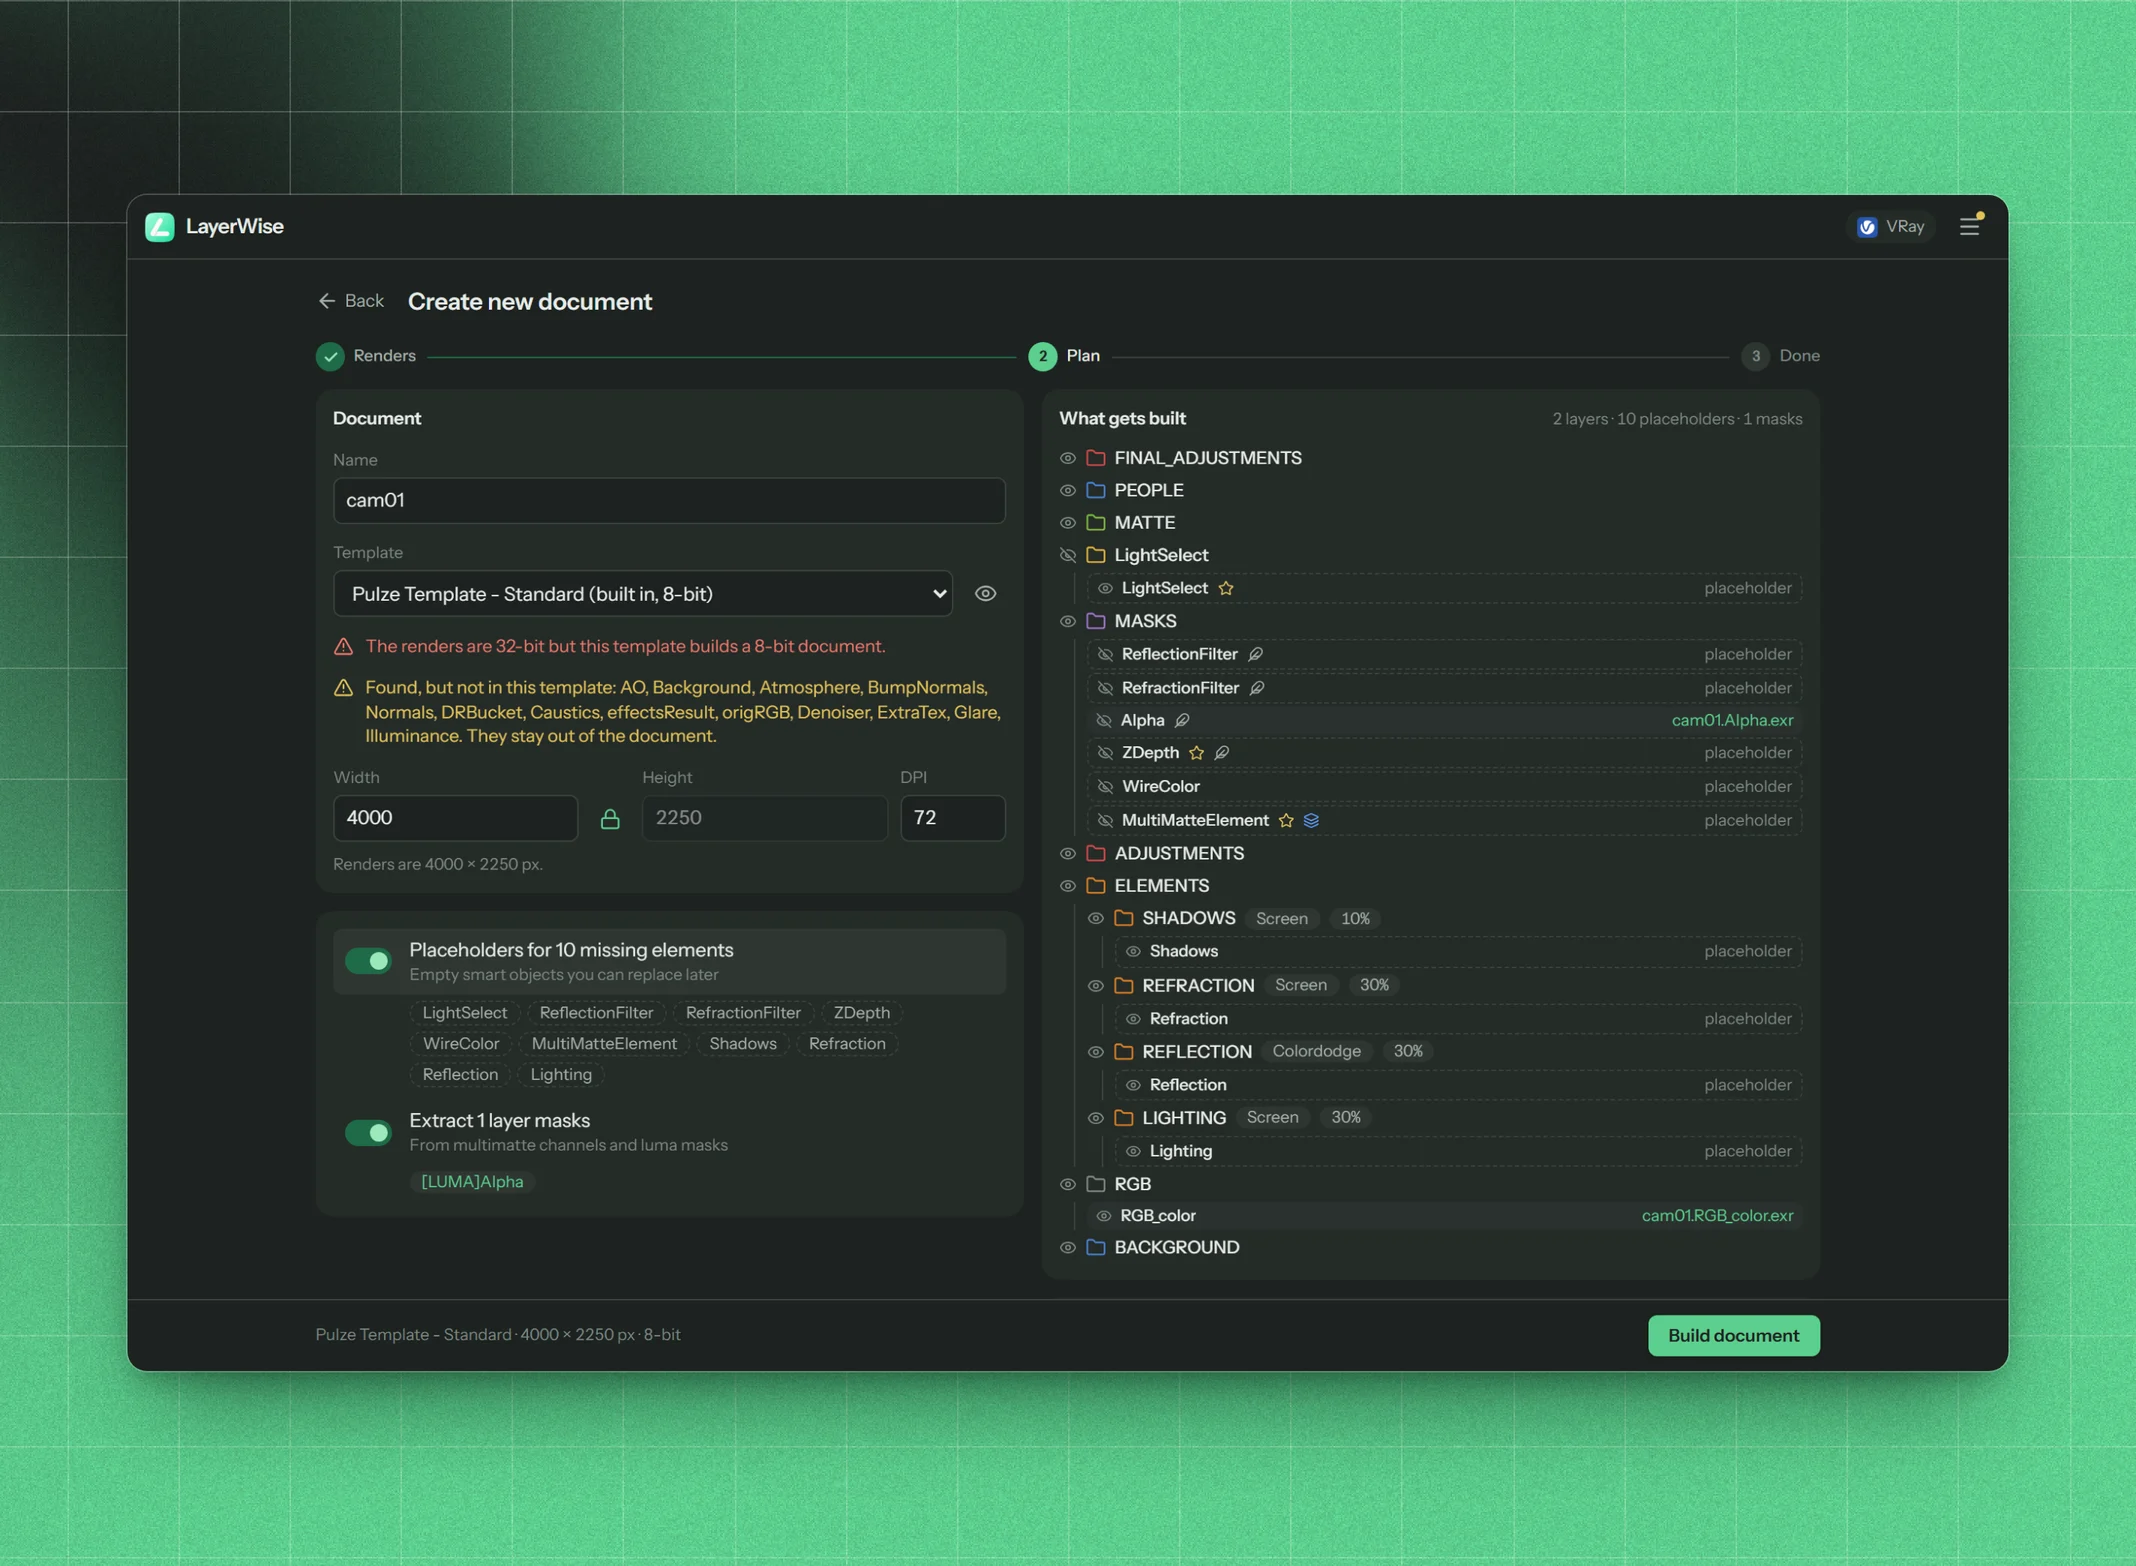
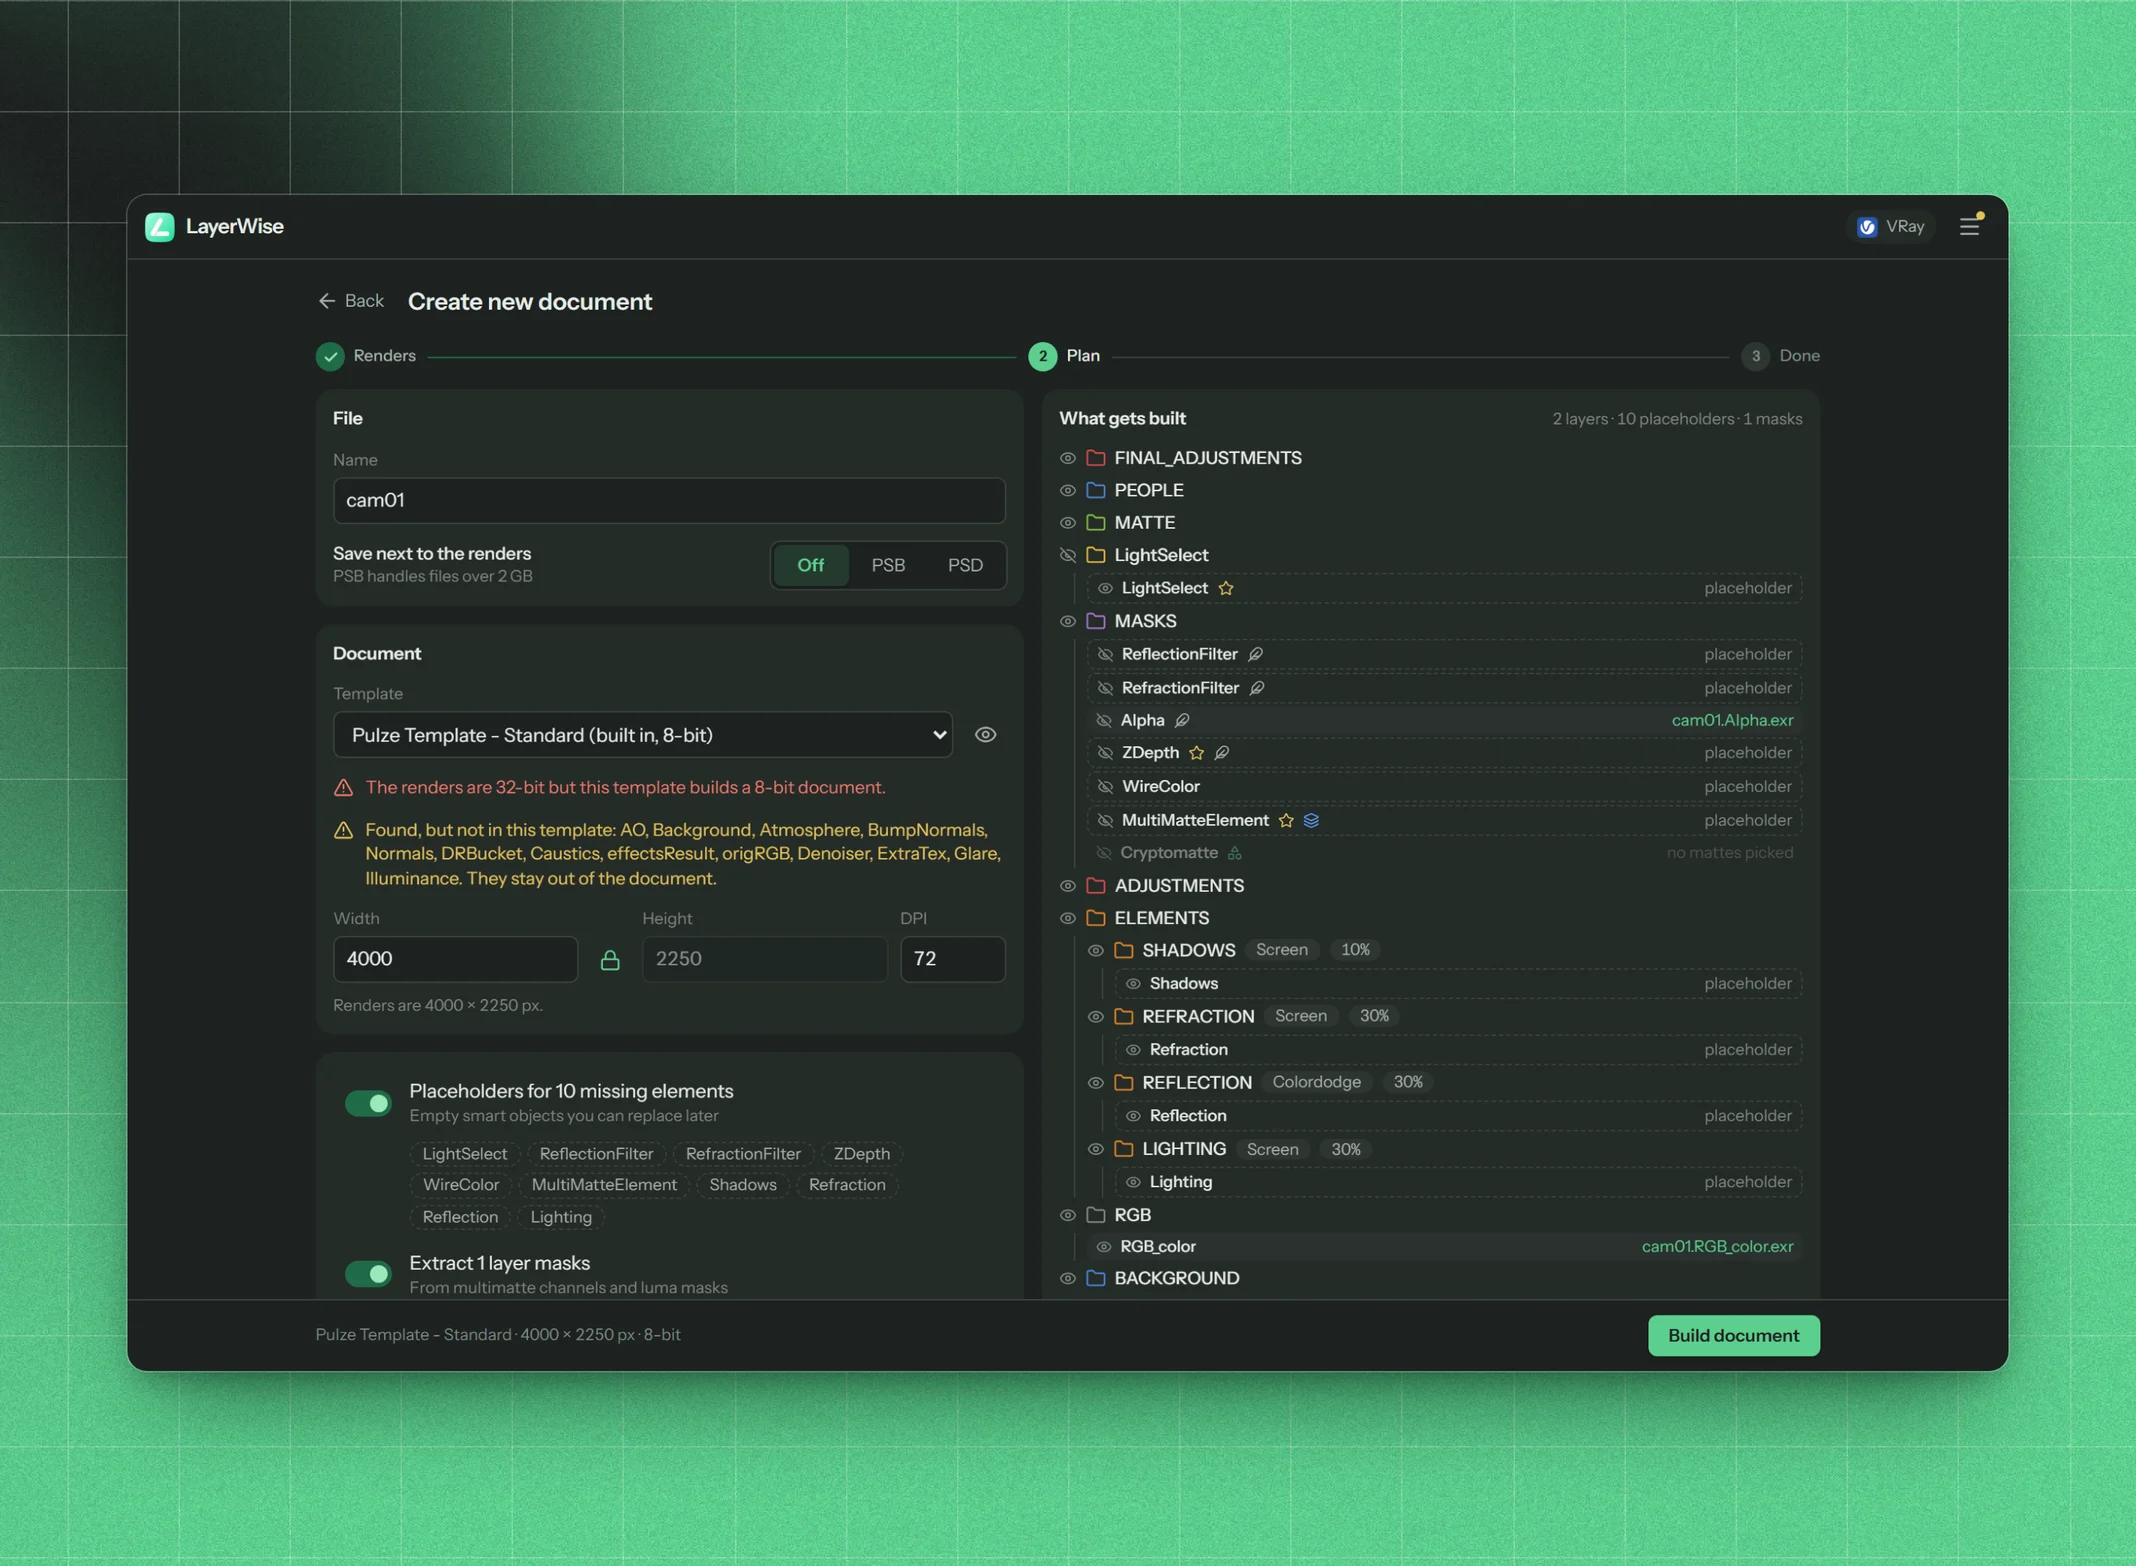
Add documentation for Cryptomatte support in LayerWise
- Introduced a new section detailing the Cryptomatte feature, explaining its functionality and integration with LayerWise.
- Listed supported renderers and their corresponding render elements.
- Provided instructions on how to pick mattes, create new documents, and update renders using Cryptomatte.
- Included notes on file compatibility and common issues when reading Cryptomatte files.

diff --git a/IMAGE-TODO.md b/IMAGE-TODO.md
@@ -204,7 +204,7 @@ Two are not captured, and neither is a matter of running the harness again:
 
 ## LayerWise
 
-All 32 images are placed as `/images/layerwise/<name>.webp` (made 2026-09-29).
+All 36 images are placed as `/images/layerwise/<name>.webp` (made 2026-09-29).
 
 - **UI screenshots** come from the LayerWise repo's screenshot harness against its mock host (`apps/ui/harness/shoot.mjs`; docs-only states: `signin`, `signin-code`, `menu-docs`, `replace-region`, `tools-done`, `tools-save-template`, `settings-docs`). They are framed like the RenderFlow v2 screenshots: 1424×1044 on the LayerWise green brand background, with `FRAME_SIZE=1424x1044 node .claude/skills/marketing-update/scripts/frame.mjs <in.png> <out.png>` in the LayerWise repo. Reshoot them when the UI changes.
 - **Photoshop and diagram images** are HTML mockups built on the marketing skill's Photoshop styles and three Pulze-generated renders. The multimatte, masks and region renders are derived from those renders; they are illustrations, not real render passes.
@@ -242,3 +242,7 @@ All 32 images are placed as `/images/layerwise/<name>.webp` (made 2026-09-29).
 - [x] `lw_replace_import.webp` — Step 2 of the Update renders wizard: the step bar (Document done, Renders active), a "Document" card with Kitchen_final.psd, its path and 3000 × 2000, and the "Now pick the new renders" area with Browse folder / Pick files buttons. (`workflows\update-renders.mdx`)
 - [x] `lw_replace_plan.webp` — Step 3 at wide layout. Left: the "Layers" list, one row per element (Lighting, Reflection, Refraction, LightSelect with a "3" layer-count badge and an expand chevron, MultiMatteElement...), each with a magnifier button, the chosen source file name or a select, and an on/off switch; one row switched off and hatched. Right sticky column "Also": "Resize the document to 4000 × 2667", "Keep each layer's current size and position", "Update 3 of 4 layer masks" with chips (#Wood #Glass #Stone dimmed #Metal), "Create 1 new layer masks". Bottom bar: Back, Pick again, Merge as regions (outline), Replace render elements. (`workflows\update-renders.mdx`)
 - [x] `lw_replace_before_after.webp` — A split image of the same kitchen render PSD in Photoshop: left "Before" (day render), right "After" (night re-render) with the Layers panel identical on both sides – same adjustment layers, same masked #Wood/#Glass groups, same smart filters listed under a layer. (`workflows\update-renders.mdx`)
+- [x] `lw_crypto_picker.webp` — the Cryptomatte masks section in Create new document, two mattes picked (`cryptomatte.mdx`, harness `build-crypto`)
+- [x] `lw_crypto_view.webp` — Pick in image over a Cryptomatte (the mock shows the mattes in false colour; reshoot with a real beauty when available) (`cryptomatte.mdx`, `build-crypto-view`)
+- [x] `lw_crypto_replace.webp` — the Cryptomatte masks section in Update renders, mattes in document pre-picked (`cryptomatte.mdx`, `replace-crypto`)
+- [x] `lw_tools_crypto.webp` — Tools → Masks from Cryptomatte dialog (`tools.mdx`, `tools-crypto`)
